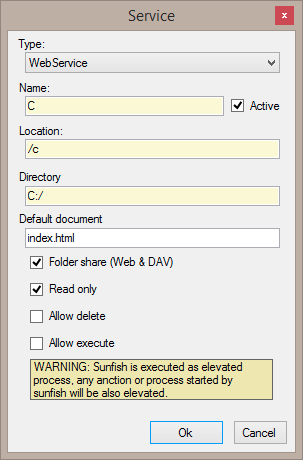
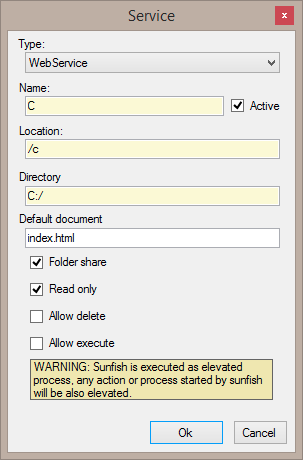
Typo and more readme

Changed region(s): [[0.1188, 0.7913, 0.8614, 0.8826], [0.3564, 0.5478, 0.5941, 0.5783]]

diff --git a/Sunfish/Services/WebServiceConfigurator.cs b/Sunfish/Services/WebServiceConfigurator.cs
@@ -35,7 +35,7 @@ namespace DolphinWebXplorer2.Services
                         Tooltip = "Default document for directory path",
                         DefaultValue = "index.html"
                     },
-                    new ConfigurationBool(CFG_SHARE,"Folder share (Web && DAV)")
+                    new ConfigurationBool(CFG_SHARE,"Folder share")// (Web && DAV)")
                     {
                         Tooltip = "Allow directory listings, switched off the server will report a forbidden message if the directory has no default file. Also enables DAV protocol",
                         DefaultValue = true,
@@ -53,7 +53,7 @@ namespace DolphinWebXplorer2.Services
                     {
                         Tooltip = "Allow application execution on server."
                     },
-                    new ConfigurationMessage(ConfigurationMessage.MessageType.WARNING,"WARNING: Sunfish is executed as elevated process, any anction or process started by sunfish will be also elevated.")
+                    new ConfigurationMessage(ConfigurationMessage.MessageType.WARNING,"WARNING: Sunfish is executed as elevated process, any action or process started by sunfish will be also elevated.")
                 },
                 //Advanced = AdvancedEditing
             };

diff --git a/README.md b/README.md
@@ -11,11 +11,46 @@ With Sunfish you can share any folder on the computer and also static web pages.
 
 Select the port and click "listen to port" to start the service. Remote connections will be allowed. Add a path to share and you can open this path using the computer IP.
 
+The root menu is a small directory of available services, can be disabled, but no service can be used as root.
+
+### Editor
+
 |![](doc/editor.png)|
 |:--:|
 | Editor screen |
 
+**Type:**
+Type of service, Version 2.0 only have the standard WebService but it can be added throught plugins or next versions.
 
+**Name:**
+Name of the service, only for display, and for the root menu.
+
+**Location:**
+Location of the service in the web path.
+
+**Directory:**
+The filesystem directory to expose
+
+**Default document:**
+The default index docuent.
+
+**Folder Share:**
+Allow folder share (directory frontend), if disabled the behaviour is similar to a web share.
+
+**Read only:**
+The shared is read only (no modifications allowed), if disabled the upload and rename of files is enabled.
+
+**Allow delete:**
+The files can be deleted, requires non read only configuration.
+
+**Allow execute:**
+Execute the file on the server side (See warinigs).
+
+### Plugin development
+
+See [Plugin development](doc/plugins.md) file
+
+### Notes
 
 A list o available computer IPs are show on the About... button (near the OK)
 

diff --git a/doc/plugins.md b/doc/plugins.md
@@ -1,0 +1,5 @@
+Sunfish allow plugin creation too add more functionality through service types.
+
+# Create new plugin
+
+Create a new C# library project and use Sunfish.exe as reference.
